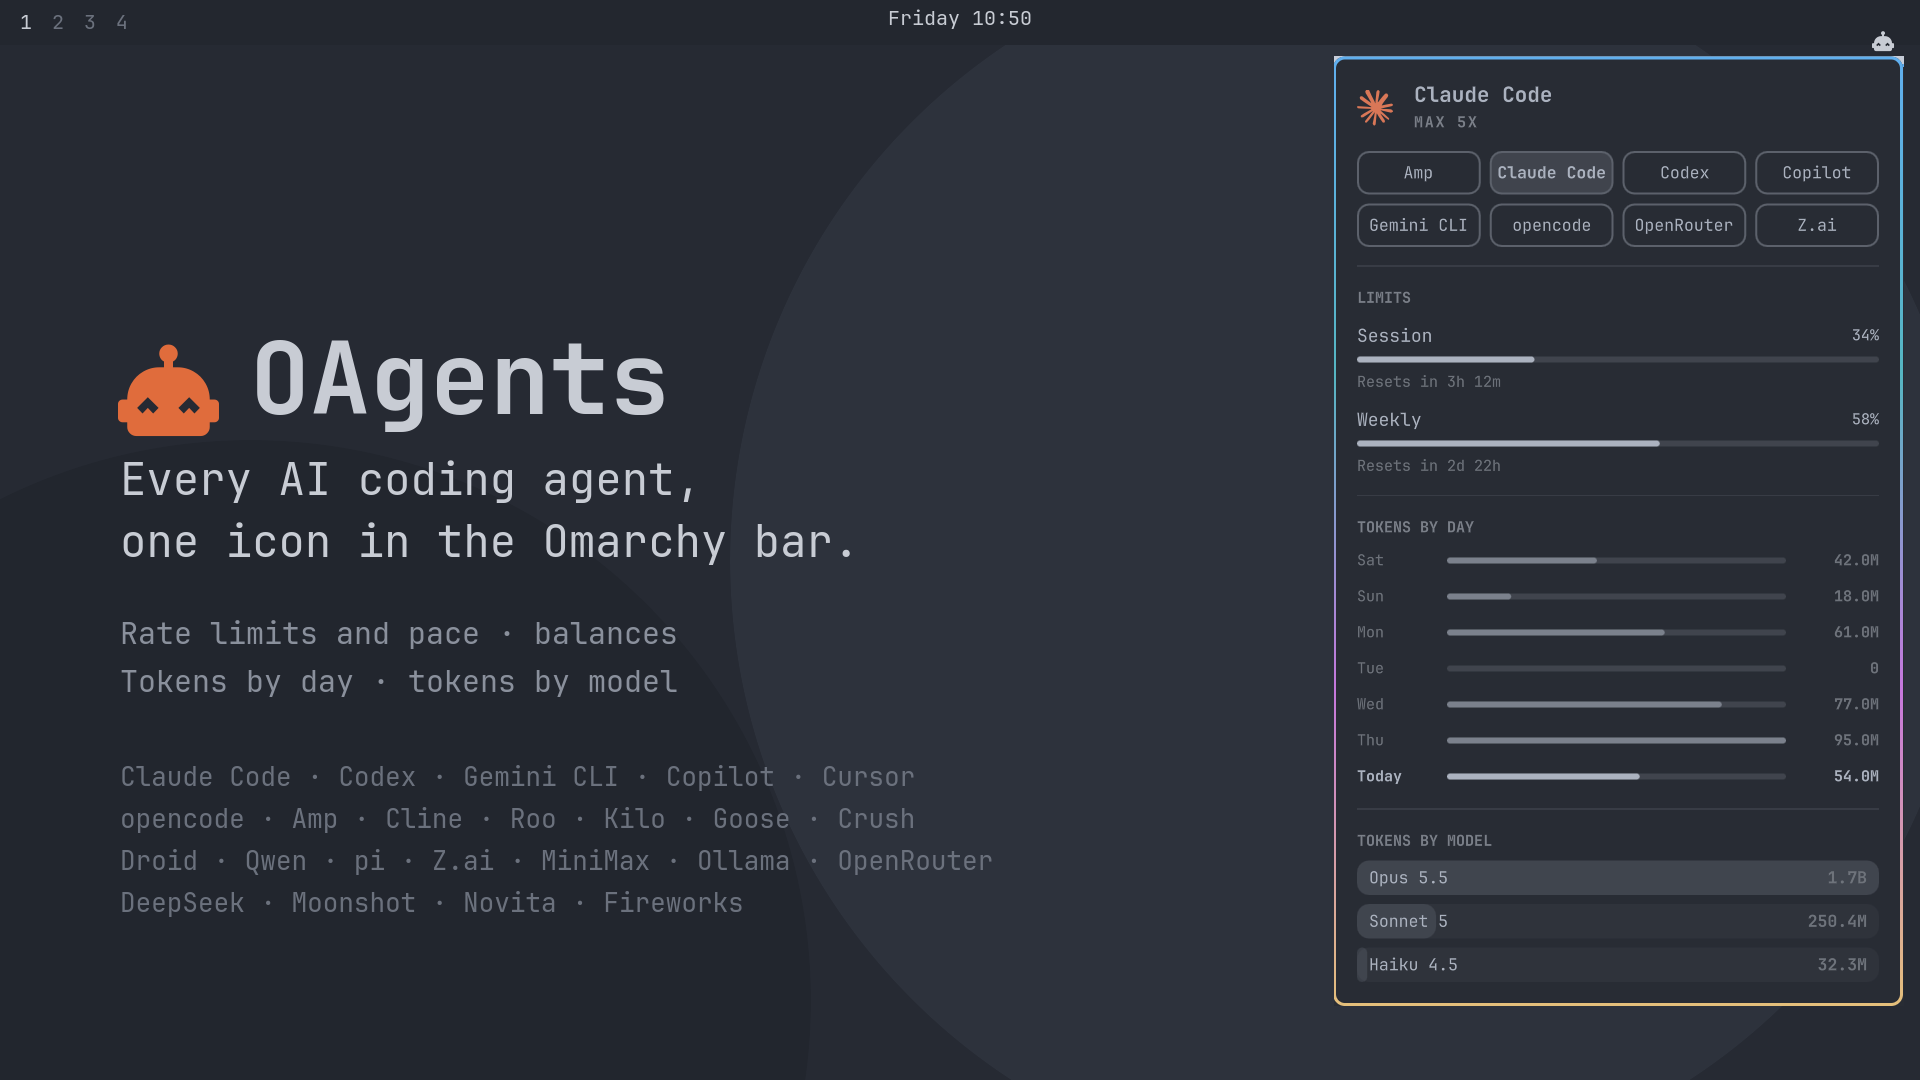
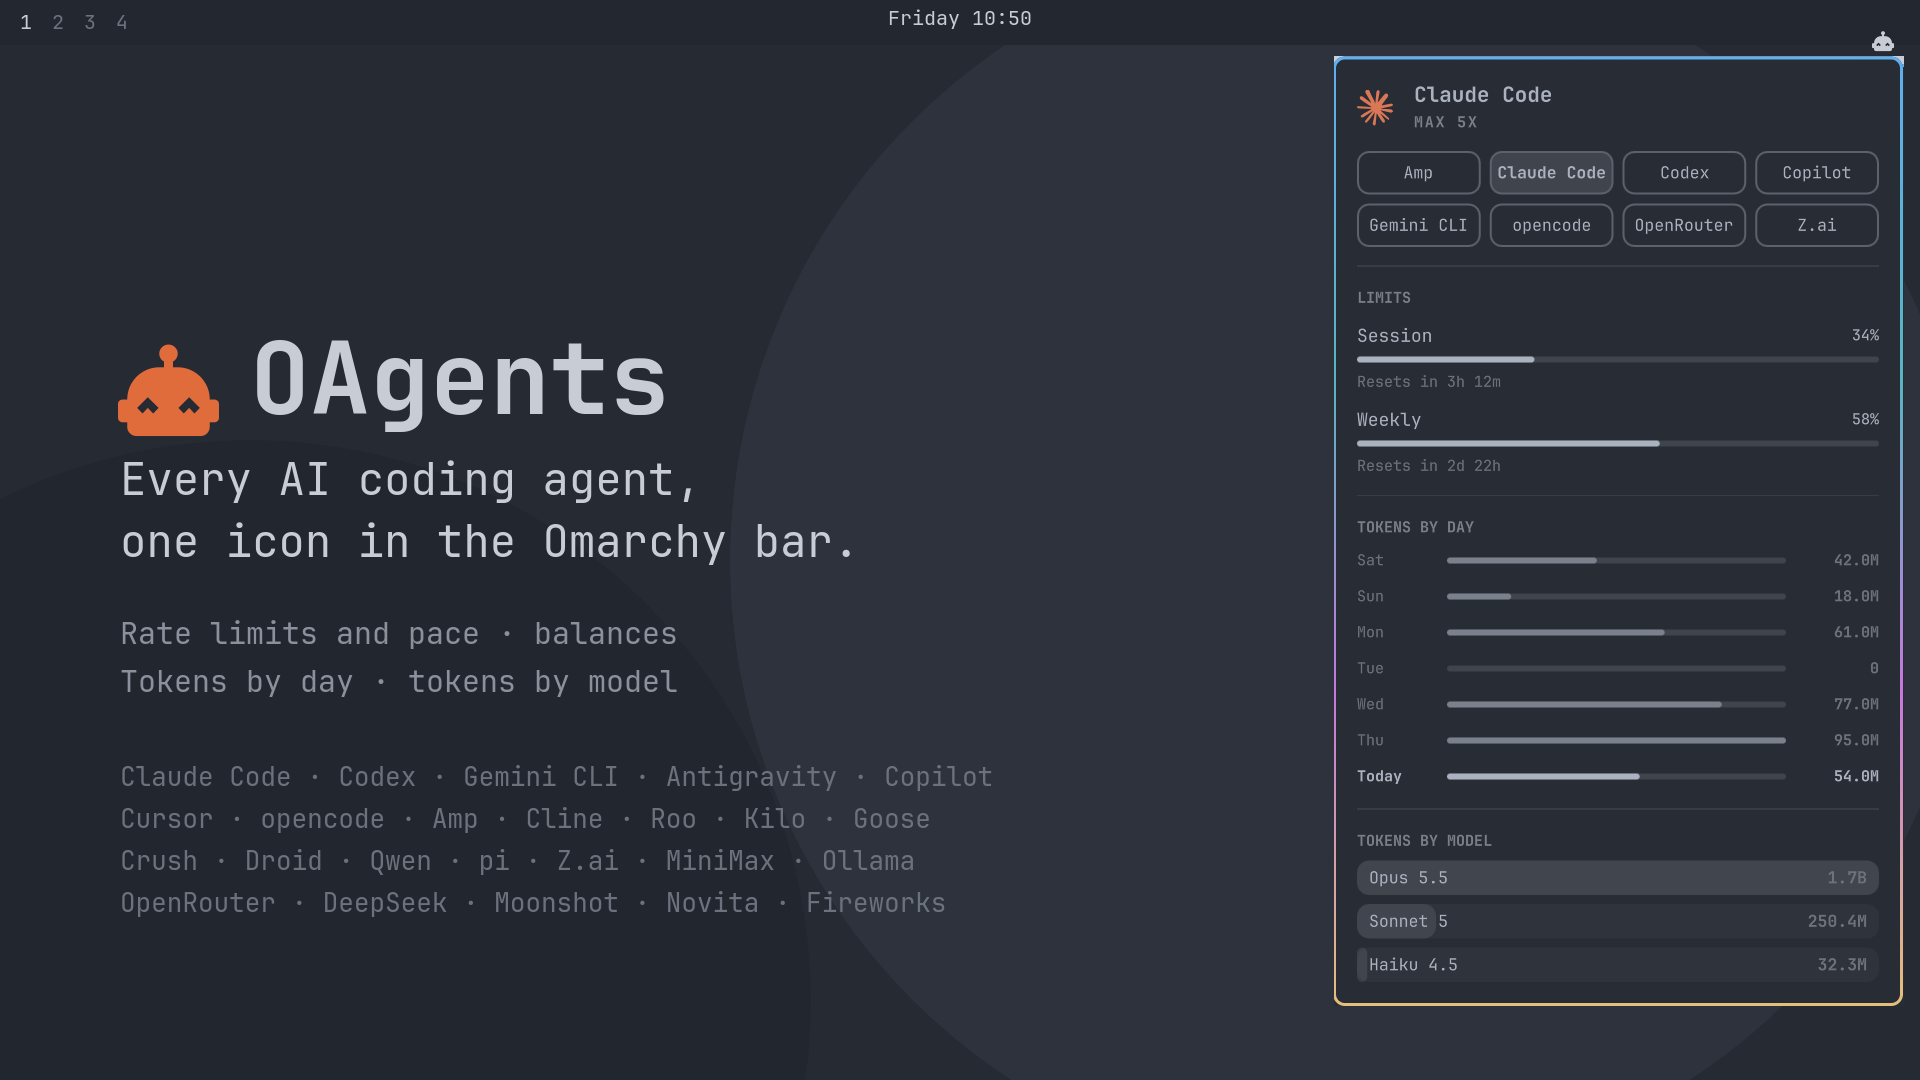
feat: add Google Antigravity collector
Antigravity (the agy CLI) keeps one SQLite file per conversation under
~/.gemini/antigravity-cli/conversations, with everything stored as
protobuf. Each model call leaves a gen_metadata row carrying
Codeium-style ModelUsageStats: field 2 input, 3 output (thinking +
response, fields 9 and 10), 4 cache write, 5 cache read, and the model
name in field 19. The call's time comes from the step its
last_step_index label points at.

- collectors/_protobuf.py: a small schema-less protobuf reader, since
  Antigravity ships no .proto.
- collectors/antigravity: token usage by day and model. The Antigravity
  IDE's conversations dir is scanned too when it exists.
- Quota windows are not shown: the quota API needs Antigravity's saved
  Google sign-in, which OAgents does not read.
- Fixture test with encoded protobuf rows; README, manifest and
  preview.png list the new agent.

Changed region(s): [[0.0625, 0.7028, 0.5, 0.8556], [0.4375, 0.7944, 0.5, 0.8556]]

diff --git a/tests/test_collectors.py b/tests/test_collectors.py
@@ -32,6 +32,27 @@ def jsonl(*rows):
   return "\n".join(json.dumps(r) for r in rows) + "\n"
 
 
+def pb_varint(n):
+  out = bytearray()
+  while True:
+    byte, n = n & 0x7F, n >> 7
+    out.append(byte | (0x80 if n else 0))
+    if not n:
+      return bytes(out)
+
+
+def pb(*fields):
+  """Encode (number, value) pairs: ints as varints, bytes/str as length-delimited."""
+  out = b""
+  for number, value in fields:
+    if isinstance(value, int):
+      out += pb_varint(number << 3) + pb_varint(value)
+    else:
+      value = value.encode() if isinstance(value, str) else value
+      out += pb_varint(number << 3 | 2) + pb_varint(len(value)) + value
+  return out
+
+
 def build(home):
   share, config = home / ".local" / "share", home / ".config"
 
@@ -119,6 +140,23 @@ def build(home):
   task(config / "VSCodium/User/globalStorage/rooveterinaryinc.roo-cline/tasks/1", "deepseek-v4")
   task(config / "Code/User/globalStorage/kilocode.kilo-code/tasks/1", "kilo-auto")
 
+  # Antigravity (agy): protobuf ModelUsageStats in gen_metadata, timestamps
+  # on the steps it points at. Step 0 is from 2020, so only step 1 is today.
+  db = home / ".gemini/antigravity-cli/conversations/c1.db"
+  db.parent.mkdir(parents=True, exist_ok=True)
+  conn = sqlite3.connect(db)
+  conn.execute("CREATE TABLE steps (idx INTEGER PRIMARY KEY, metadata BLOB)")
+  conn.execute("CREATE TABLE gen_metadata (idx INTEGER PRIMARY KEY, data BLOB, size INTEGER)")
+  conn.execute("INSERT INTO steps VALUES (0, ?)", (pb((1, pb((1, 1_600_000_000)))),))
+  conn.execute("INSERT INTO steps VALUES (1, ?)", (pb((1, pb((1, NOW_MS // 1000)))),))
+  def gen(step, usage):
+    return pb((1, pb((4, pb(*usage)), (19, "gemini-3.8-flash"),
+                     (20, pb((1, "last_step_index"), (2, str(step)))))))
+  conn.execute("INSERT INTO gen_metadata VALUES (0, ?, 0)", (gen(0, [(1, 1318), (2, 999), (3, 999)]),))
+  conn.execute("INSERT INTO gen_metadata VALUES (1, ?, 0)", (gen(1, [(1, 1318), (2, 100), (3, 50), (5, 1000), (6, 24)]),))
+  conn.commit()
+  conn.close()
+
 
 # agent -> (total tokens today, model expected in modelUsage)
 EXPECTED = {
@@ -133,6 +171,7 @@ EXPECTED = {
   "cline": (110, "claude-sonnet-5"),
   "roo": (110, "deepseek-v4"),
   "kilocode": (110, "kilo-auto"),
+  "antigravity": (1150, "gemini-3.8-flash"),
 }
 
 
@@ -150,7 +189,7 @@ def main():
         assert record["todayTotalTokens"] == tokens, f"todayTotalTokens {record['todayTotalTokens']} != {tokens}"
         assert model in record["modelUsage"], f"model {model} not in {list(record['modelUsage'])}"
         assert record["recentDays"][-1] == {"date": TODAY, "messageCount": tokens}, "recentDays"
-        assert record["activeDays"] == 1, "activeDays"
+        assert record["activeDays"] == (2 if agent == "antigravity" else 1), "activeDays"
         print(f"ok   {agent}")
       except Exception as exc:
         failures += 1

diff --git a/collectors/_protobuf.py b/collectors/_protobuf.py
@@ -1,0 +1,67 @@
+"""A minimal schema-less protobuf reader.
+
+Enough to walk the wire format of blobs whose .proto we do not have: fields
+come back as (number, wire type, value), with length-delimited values left as
+bytes so the caller decides whether they are strings or nested messages.
+"""
+
+
+def _varint(buf, i):
+  result = shift = 0
+  while True:
+    byte = buf[i]
+    i += 1
+    result |= (byte & 0x7F) << shift
+    shift += 7
+    if byte < 0x80:
+      return result, i
+
+
+def fields(buf):
+  """Every top-level field of a message; [] when buf is not valid protobuf."""
+  out, i = [], 0
+  try:
+    while i < len(buf):
+      key, i = _varint(buf, i)
+      number, wire = key >> 3, key & 7
+      if number == 0:
+        return []
+      if wire == 0:
+        value, i = _varint(buf, i)
+      elif wire == 1:
+        value, i = int.from_bytes(buf[i:i + 8], "little"), i + 8
+      elif wire == 5:
+        value, i = int.from_bytes(buf[i:i + 4], "little"), i + 4
+      elif wire == 2:
+        size, i = _varint(buf, i)
+        value, i = bytes(buf[i:i + size]), i + size
+      else:
+        return []
+      out.append((number, wire, value))
+  except IndexError:
+    return []
+  return out
+
+
+def get(buf, *path):
+  """The first value at a field-number path, e.g. get(blob, 1, 4); None if absent."""
+  for number, wire, value in fields(buf or b""):
+    if number != path[0]:
+      continue
+    if len(path) == 1:
+      return value
+    if wire == 2:
+      found = get(value, *path[1:])
+      if found is not None:
+        return found
+  return None
+
+
+def all_of(buf, number):
+  """Every value of a repeated field."""
+  return [value for n, _, value in fields(buf or b"") if n == number]
+
+
+def ints(buf):
+  """A message's varint fields as {number: value}."""
+  return {n: v for n, w, v in fields(buf or b"") if w == 0}

diff --git a/README.md b/README.md
@@ -5,15 +5,15 @@
 </p>
 
 <p align="center">
-  <b>Rate limits, balances and token usage for 23 AI coding agents and providers, in one Omarchy bar panel.</b>
+  <b>Rate limits, balances and token usage for 24 AI coding agents and providers, in one Omarchy bar panel.</b>
 </p>
 
 <p align="center"><sub>Shown with <a href="#-preview-mode-for-reviews-and-demos">preview mode</a> sample data.</sub></p>
 
 OAgents is Omarchy's built-in **Agents** panel ([`omarchy.agents`][upstream]),
-extended from three agents to 23. The panel is the same: rate-limit meters
+extended from three agents to 24. The panel is the same: rate-limit meters
 with pace, prepaid balances, tokens by day for the last week, and tokens by
-model. OAgents adds 20 more data sources that read your agents' local
+model. OAgents adds 21 more data sources that read your agents' local
 session files or the providers' usage APIs.
 
 [upstream]: https://github.com/omacom/omarchy/tree/947e2fc002d6831c7888b29b5761d59d29e69727/shell/plugins/agents
@@ -47,6 +47,7 @@ session files or the providers' usage APIs.
 | `claude` | Claude Code | Omarchy's collector: transcripts + OAuth limits |
 | `codex` | Codex | Omarchy's collector: sessions + app-server limits |
 | `gemini` | Gemini CLI | `~/.gemini/tmp/*/chats/*` |
+| `antigravity` | Google Antigravity (`agy` CLI) | `~/.gemini/antigravity-cli/conversations/*.db`, `~/.gemini/antigravity/conversations/*.db` |
 | `qwen` | Qwen Code | `~/.qwen/{tmp,projects}/*/chats/*` |
 | `opencode` | opencode (every provider) | `~/.local/share/opencode/opencode.db` + legacy `storage/message` |
 | `pi` | pi / oh-my-pi (every provider) | `~/.pi/agent/sessions`, `~/.omp/agent/sessions` |
@@ -228,6 +229,9 @@ missing.
 - Tabs for tools (opencode, pi) can overlap with tabs for subscriptions
   (Claude Code, Codex). For example, an opencode session on Anthropic counts
   in both the `opencode` tab and the `claude` tab.
+- Antigravity shows token usage only, not its 5-hour and weekly quota: the
+  quota API needs Antigravity's saved Google sign-in, which OAgents doesn't
+  read.
 - Droid and Crush store session totals, not per-turn usage. A whole session
   counts toward the last day it was active.
 - API collectors follow each provider's current response format, and a
@@ -263,6 +267,7 @@ OAgents/
 │   ├── _agentusage.py       # Shared accumulator, cache, credentials, HTTP
 │   ├── _gemini_chats.py     # Gemini CLI / Qwen Code chat parser
 │   ├── _cline_tasks.py      # Cline / Roo / Kilo task parser
+│   ├── _protobuf.py         # Schema-less protobuf reader (Antigravity)
 │   ├── _preview.py          # Preview mode sample records
 │   └── <agent>              # One executable collector per agent
 ├── assets/                  # Agent marks (assets/<id>.svg)
